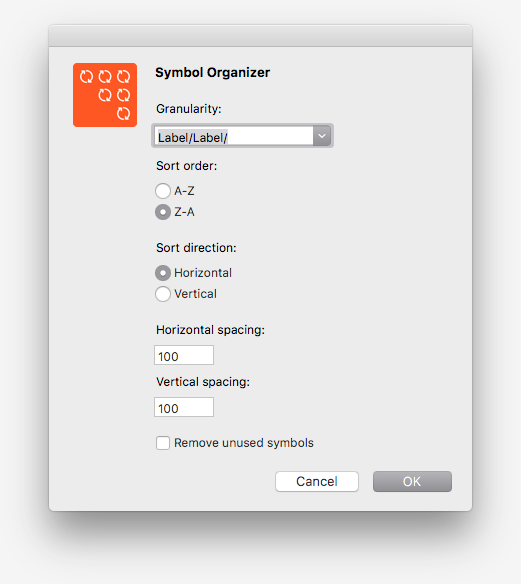
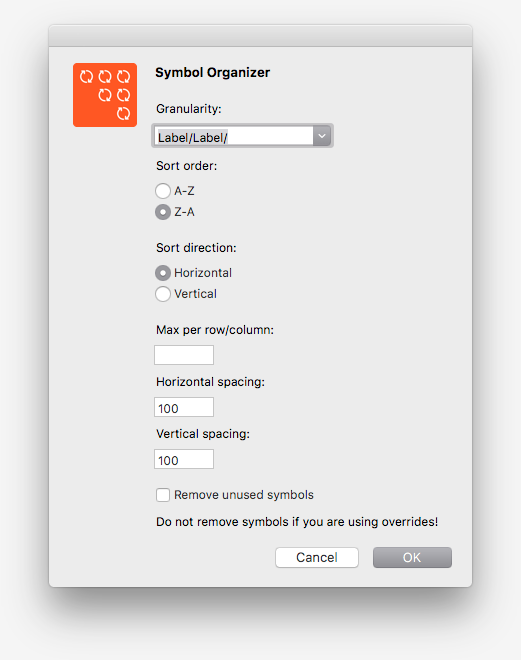
Added ability to set a maximum number of symbols per row/column.

Changed region(s): [[0.1228, 0.0925, 0.6449, 0.524], [0.0921, 0.5548, 0.9213, 0.8938]]

diff --git a/README.md b/README.md
@@ -1,5 +1,5 @@
 ![Symbol Organizer](https://raw.githubusercontent.com/sonburn/symbol-organizer/master/logo.png)
 
-Organize your symbols page alphabetically (including layer list) and into groupings determined by your symbol names. Also provides the ability to choose the granularity of the groups, reverse the layer list sort direction, layout symbols horizontally or vertically, and to remove any unused symbols.
+Organize your symbols page alphabetically (including layer list) and into groupings determined by your symbol names. Also provides the ability to choose the granularity of the groups, reverse the layer list sort direction, layout symbols horizontally or vertically, set a maximum of symbols per row/column, and to remove any unused symbols.
 
 ![Symbol Organizer](https://raw.githubusercontent.com/sonburn/symbol-organizer/master/Screenshots/Symbol%20Organizer.png)
